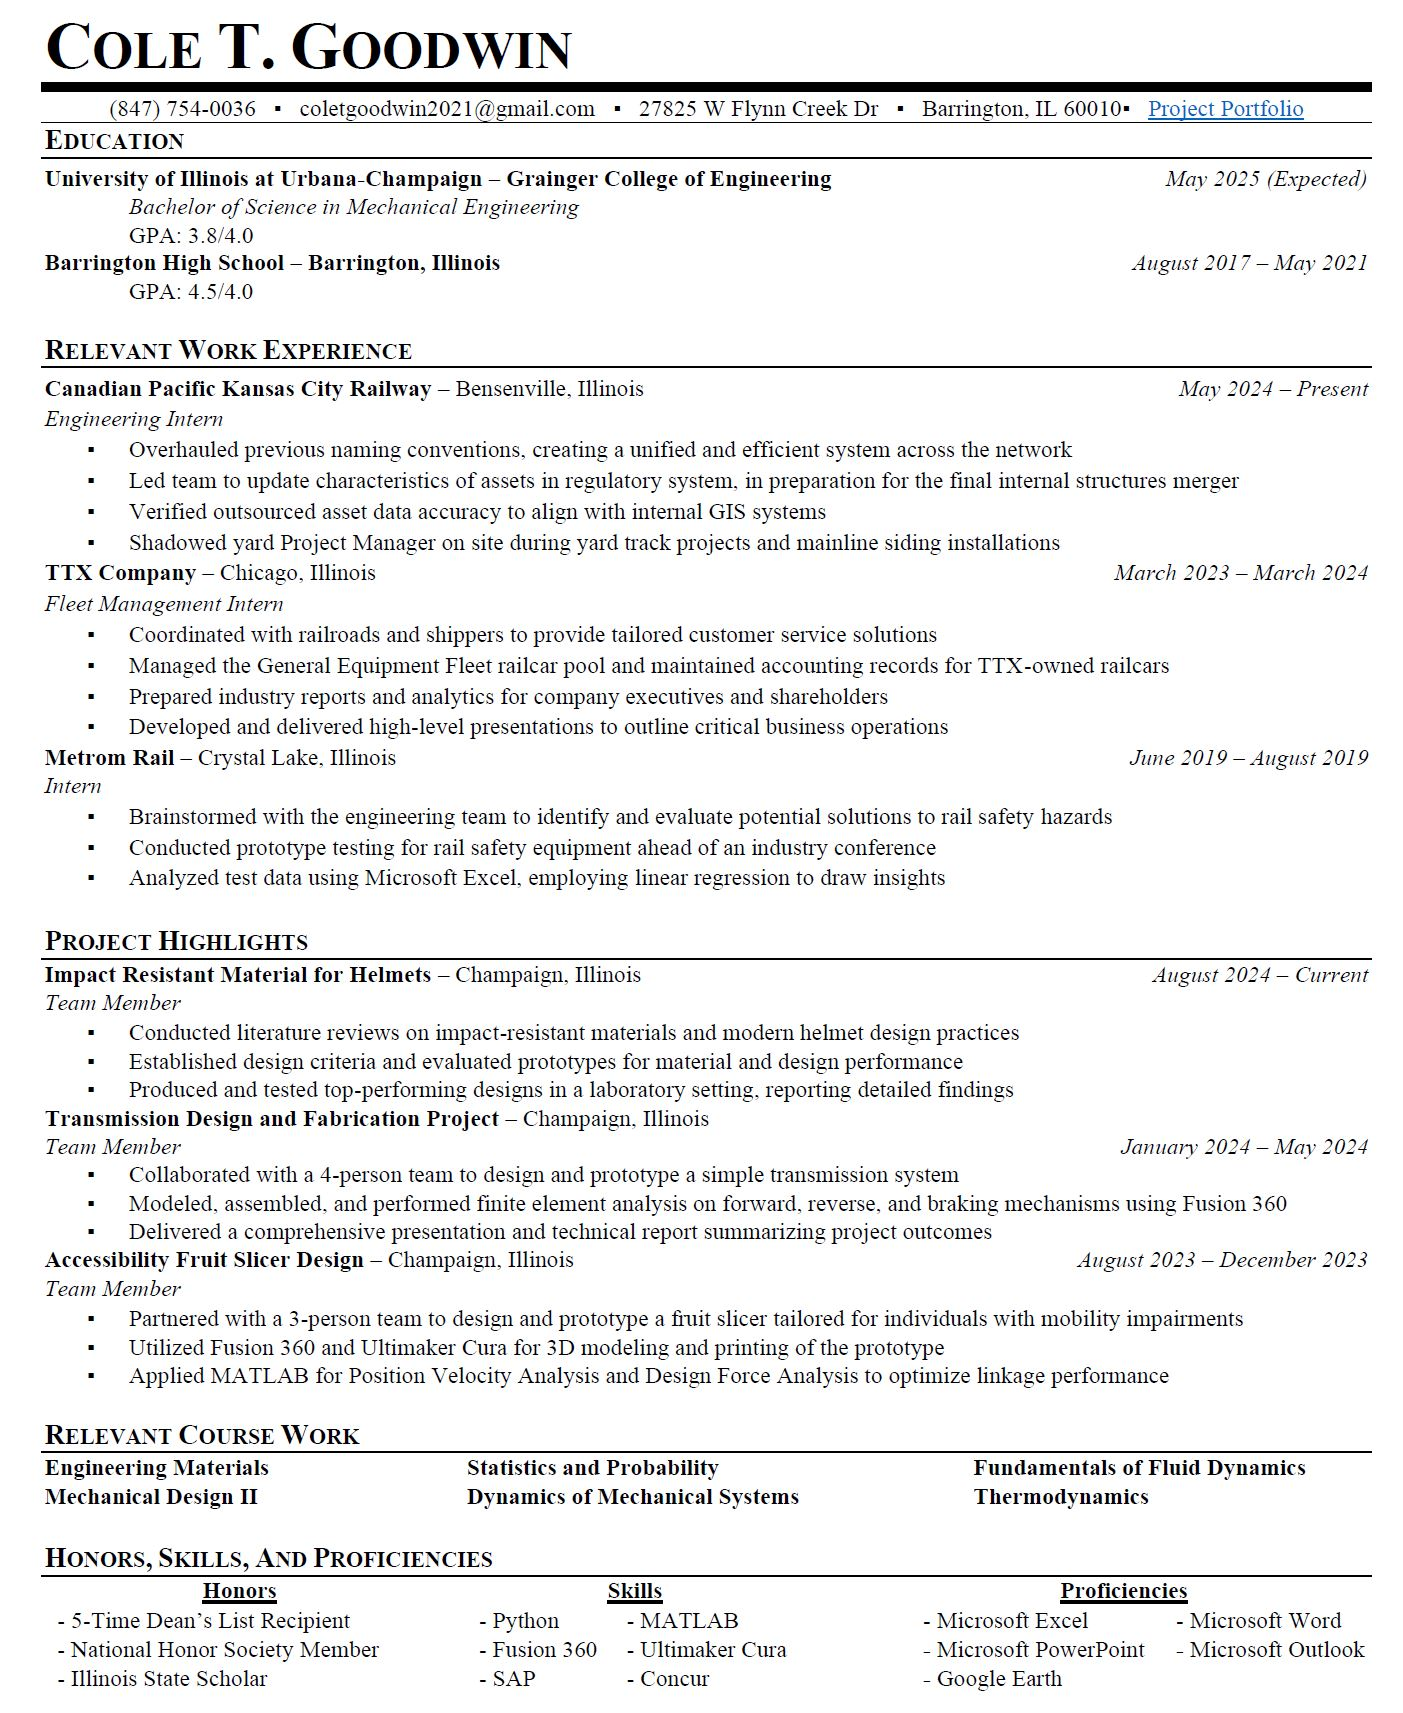
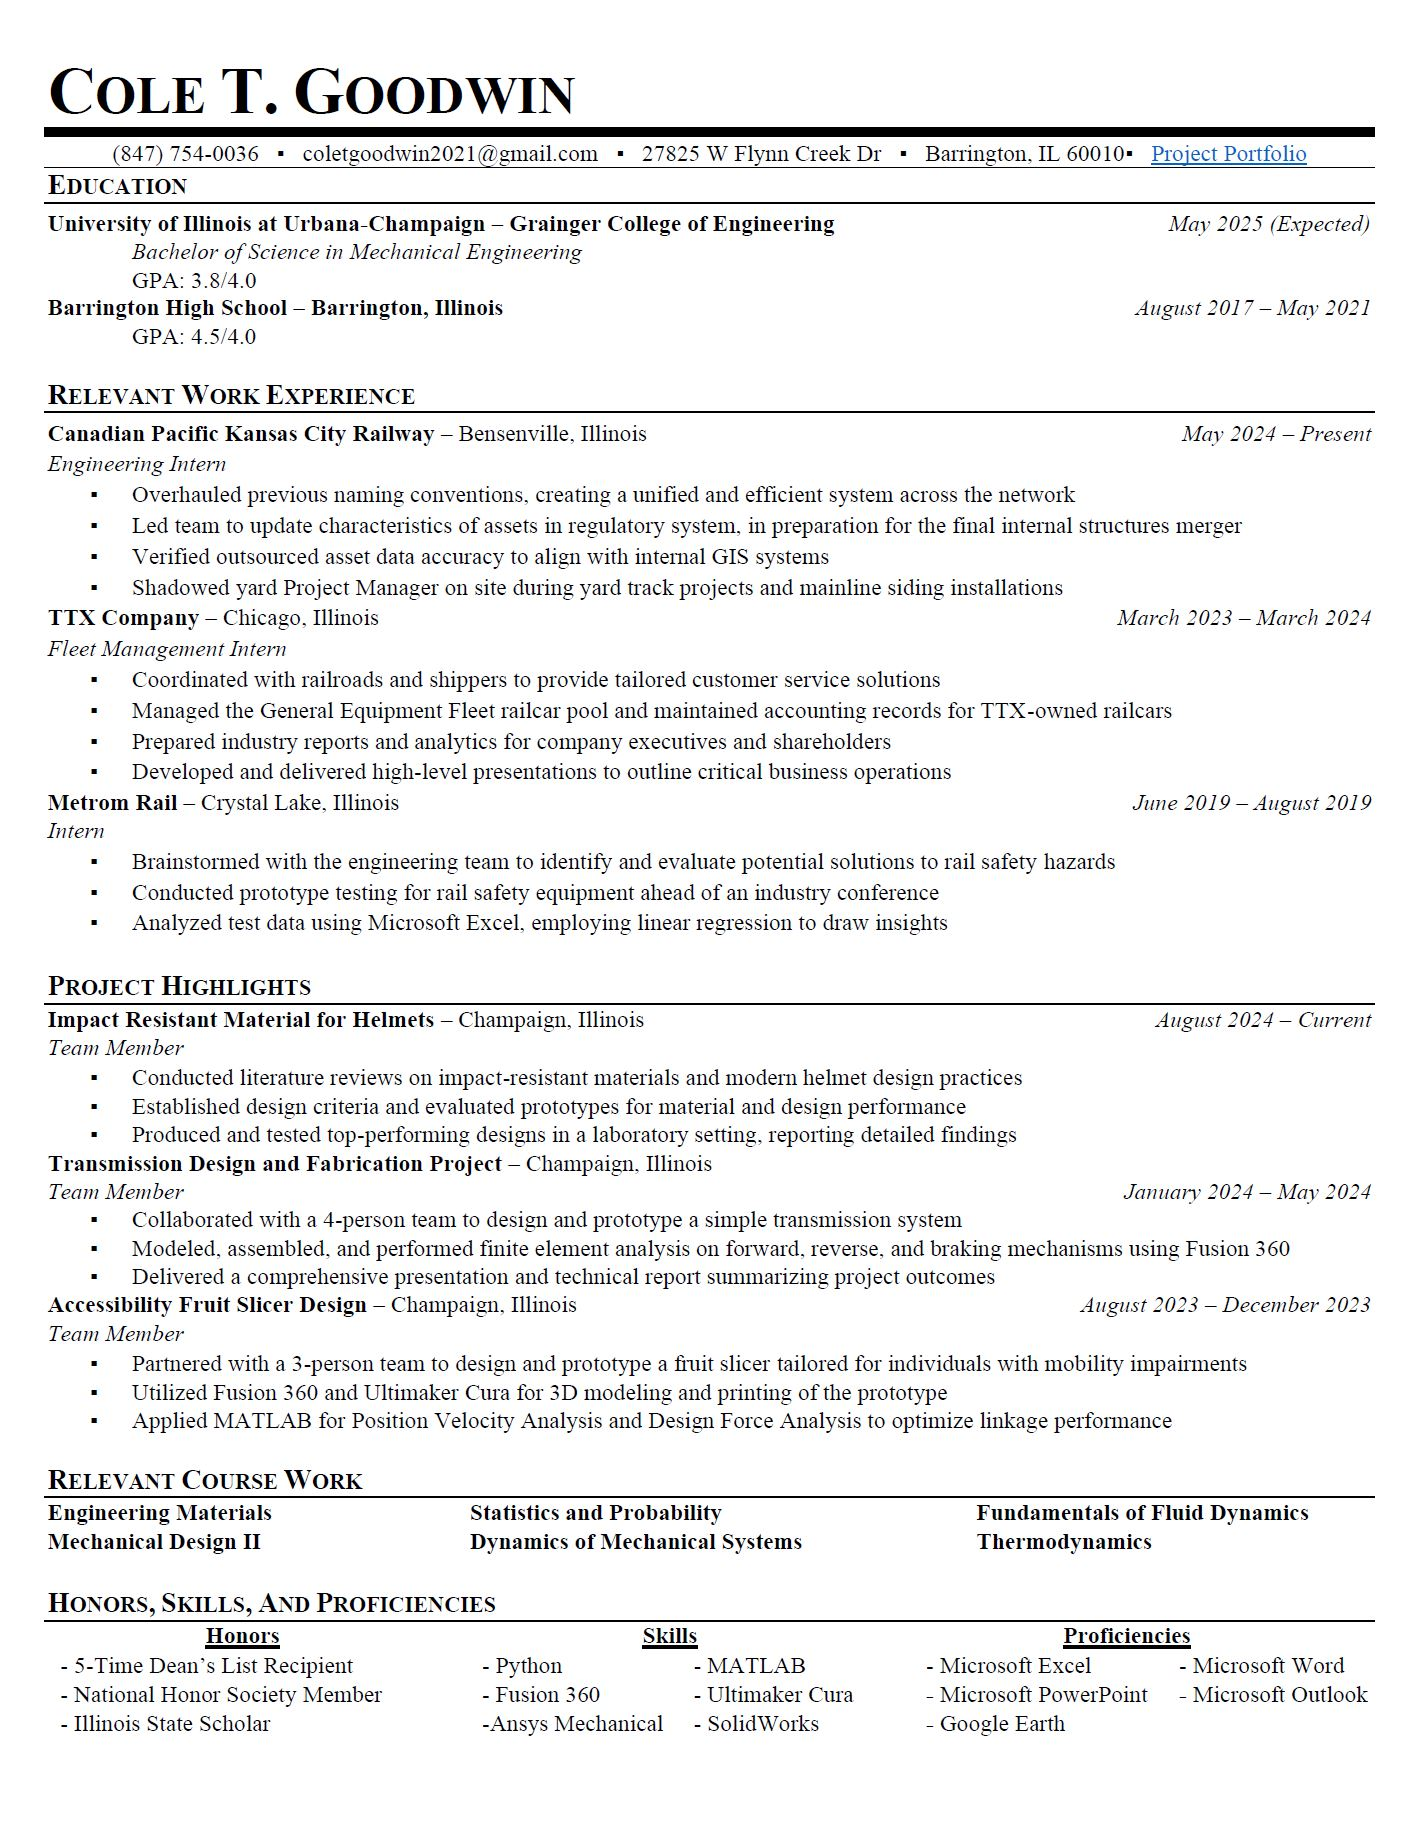
update

diff --git a/index.html b/index.html
@@ -37,6 +37,7 @@
                                     <li>Fusion 360</li>
                                     <li>Ultimaker Cura</li>
                                     <li>SolidWorks</li>
+                                    <li>Ansys Mechanical</li>
                                     <li>Microsoft Excel</li>
                                     <li>Microsoft Word</li>
                                     <li>Microsoft PowerPoint</li>
